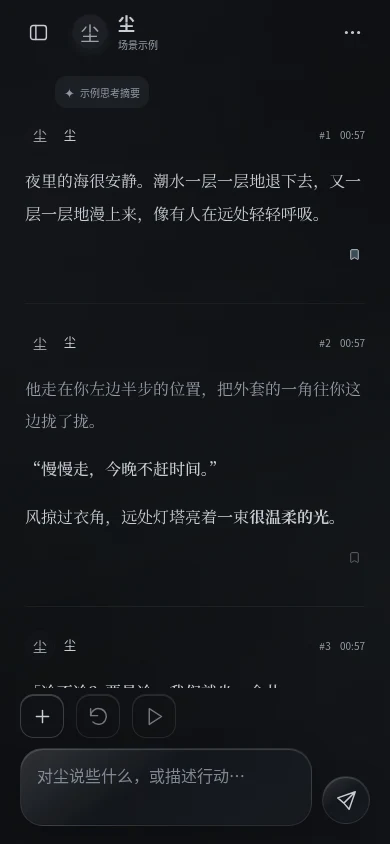
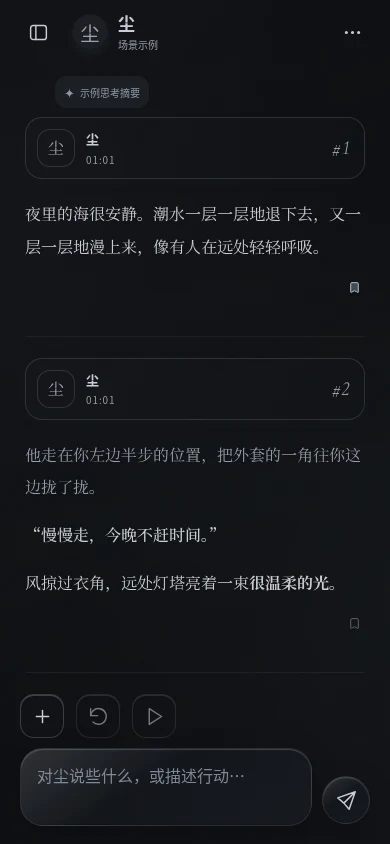
Style moom message headers with restrained frosted glass

diff --git a/src/apps/moom/default.css b/src/apps/moom/default.css
@@ -10,6 +10,9 @@
  --moom-body-leading:2.05;
  --moom-message-gap:24px;
  --moom-message-rule:rgb(var(--tint) / .11);
+ --moom-status-surface:linear-gradient(125deg,rgb(var(--glass-tint) / .42),rgb(var(--glass-tint) / .13));
+ --moom-status-rim:color-mix(in srgb,var(--line) 70%,transparent);
+ --moom-status-radius:17px;
 }
 .moom-app[data-moom-skin="default"]:before{
  background:linear-gradient(165deg,rgb(var(--glass-tint) / .38),rgb(var(--scene-rgb) / .07) 60%,rgb(var(--glass-tint) / .25));
@@ -17,12 +20,37 @@
 .moom-app .moom-reading{width:min(100%,600px);padding:12px 25px 28px}
 .moom-app [data-moom-part="message"]{position:relative;white-space:normal;text-align:left;margin:0 0 var(--moom-message-gap);padding:0 0 6px;color:var(--moom-body-color);font-size:var(--moom-body-size);line-height:var(--moom-body-leading)}
 .moom-app [data-moom-part="message"]+[data-moom-part="message"]{border-top:1px solid var(--moom-message-rule);padding-top:21px}
-.moom-app [data-moom-part="status"]{display:flex;align-items:center;gap:9px;min-height:36px;margin-bottom:12px;font:11px/1.4 var(--font-ui);color:var(--moom-meta-color)}
-.moom-app .moom-message-avatar{width:30px;height:30px;flex-shrink:0;border:1px solid rgb(var(--glass-tint) / .5);box-shadow:none;background:rgb(var(--glass-tint) / .28)}
-.moom-app .moom-message-avatar>span{font:14px/1 var(--font-ui)}
-.moom-app [data-moom-part="name"]{flex:1;min-width:0;overflow:hidden;text-overflow:ellipsis;white-space:nowrap;color:var(--ink);font-weight:500;font-size:12px}
-.moom-app [data-moom-part="floor"]{font:10px/1.4 var(--font-ui);font-variant-numeric:tabular-nums;letter-spacing:.03em;white-space:nowrap}
-.moom-app [data-moom-part="time"]{font:10px/1.4 var(--font-ui);font-variant-numeric:tabular-nums;white-space:nowrap}
+/* A compact character heading: portrait, name/date stack and quiet floor number.
+   Keep the existing parts and DOM order so alternative skins can replace this layout. */
+.moom-app [data-moom-part="status"]{
+ display:grid;grid-template-columns:38px minmax(0,1fr) auto;grid-template-rows:auto auto;
+ align-items:center;column-gap:11px;row-gap:3px;min-height:62px;
+ padding:10px 13px 10px 11px;margin:0 0 19px;border:1px solid var(--moom-status-rim);
+ border-radius:var(--moom-status-radius);background:var(--moom-status-surface);
+ box-shadow:inset 0 1px 0 rgb(var(--glass-tint) / .35),0 3px 14px rgb(var(--tint) / .035);
+ backdrop-filter:blur(12px);-webkit-backdrop-filter:blur(12px);
+ font:11px/1.4 var(--font-ui);color:var(--moom-meta-color);
+}
+.moom-app .moom-message-avatar{
+ grid-column:1;grid-row:1 / 3;width:38px;height:38px;border-radius:13px;
+ padding:3px;border:1px solid var(--moom-status-rim);box-shadow:none;
+ background:rgb(var(--glass-tint) / .22);
+}
+.moom-app .moom-message-avatar img{border-radius:9px}
+.moom-app .moom-message-avatar>span{font:16px/1 var(--font-story)}
+.moom-app [data-moom-part="name"]{
+ grid-column:2;grid-row:1;align-self:end;min-width:0;overflow:hidden;text-overflow:ellipsis;
+ white-space:nowrap;color:var(--ink);font:550 13px/1.5 var(--font-ui);letter-spacing:.05em;
+}
+.moom-app [data-moom-part="floor"]{
+ grid-column:3;grid-row:1 / 3;align-self:center;min-width:24px;text-align:right;
+ font:italic 20px/1 var(--font-en);font-variant-numeric:lining-nums tabular-nums;
+ letter-spacing:.015em;white-space:nowrap;color:var(--moom-meta-color);
+}
+.moom-app [data-moom-part="time"]{
+ grid-column:2;grid-row:2;align-self:start;font:10px/1.5 var(--font-ui);
+ font-variant-numeric:tabular-nums;letter-spacing:.09em;white-space:nowrap;
+}
 .moom-app [data-moom-part="body"]{font-family:var(--moom-body-font);color:var(--moom-body-color);overflow-wrap:anywhere}
 .moom-app .moom-prose{display:block;margin:0;white-space:pre-wrap;font-size:inherit;line-height:inherit}
 .moom-app .moom-prose+.moom-prose{margin-top:15px}
@@ -31,7 +59,7 @@
 .moom-app [data-moom-part="emphasis"]{color:var(--moom-body-color);font-weight:650}
 .moom-app [data-moom-part="inline-code"]{font:12px/1.7 ui-monospace,monospace;background:rgb(var(--tint) / .1);border-radius:5px;padding:2px 5px}
 .moom-app [data-moom-role="user"]{font-size:15px}
-.moom-app [data-moom-role="user"] [data-moom-part="name"]{color:var(--muted)}
+
 .moom-app .moom-thinking-trigger{display:flex;align-items:center;gap:5px;min-height:32px;max-width:100%;padding:4px 9px;margin:0 0 9px 30px;border:0;border-radius:12px;background:rgb(var(--glass-tint) / .16);color:var(--moom-meta-color);font:10px/1.5 var(--font-ui);text-align:left}
 .moom-app .moom-thinking-trigger span{overflow:hidden;text-overflow:ellipsis;white-space:nowrap}
 .moom-app .moom-thinking-trigger:hover{background:rgb(var(--tint) / .1)}
@@ -43,6 +71,6 @@
 .moom-sheet .moom-reasoning-caption{font:11px/1.8 var(--font-ui);color:var(--muted);margin:0 0 12px}
 .moom-sheet [data-moom-part="thinking-content"] .moom-reasoning-text{white-space:pre-wrap;overflow-wrap:anywhere;font:14px/1.95 var(--font-ui);color:var(--ink);max-height:55dvh;overflow:auto;overscroll-behavior:contain;scrollbar-width:thin}
 :root[data-theme="dark"] .moom-app[data-moom-skin="default"]:before{background:linear-gradient(165deg,rgb(var(--glass-tint) / .55),rgb(var(--scene-rgb) / .045) 60%,rgb(var(--glass-tint) / .45))}
-@media(max-width:350px){.moom-app .moom-reading{padding-inline:18px}.moom-app [data-moom-part="message"]{font-size:15px}.moom-app [data-moom-part="status"]{gap:7px}.moom-app .moom-thinking-trigger{margin-left:23px}}
+@media(max-width:350px){.moom-app .moom-reading{padding-inline:18px}.moom-app [data-moom-part="message"]{font-size:15px}.moom-app [data-moom-part="status"]{column-gap:9px;padding-inline:10px}.moom-app .moom-thinking-trigger{margin-left:23px}}
 
 .moom-app .moom-thinking-trigger>.moom-thinking-mark{font-size:13px;line-height:1;flex-shrink:0}

diff --git a/docs/moom-styling.md b/docs/moom-styling.md
@@ -14,7 +14,7 @@
 ## 当前默认设计
 
 - 克制的文档阅读布局，没有大块消息气泡。
-- 每条场景记录前显示紧凑消息头：角色头像、名字、楼层、24 小时发送时间。
+- 每条场景记录前显示轻透磨砂玻璃消息头：细框圆角头像、上下排列的名字与 24 小时发送时间，右侧以衬线数字显示楼层。圆角、留白和淡描边形成简约的韩系 ins 风；不添加虚构的动态状态。
 - 楼层按原场景记录顺序计数，筛选收藏时不重新编号。当前旧数据的每个 entry 就是一楼，不合并或重写原记录。
 - 台词、动作和强调有独立样式。普通正文继承 body 的字体、颜色、字号和行距。
 - 有服务提供的思考字段或开头的 `<think>...</think>` 时，显示一个小入口，点击进入共享底部抽屉。
@@ -63,6 +63,9 @@
 - `--moom-body-leading`：正文行高。
 - `--moom-message-gap`：消息间距。
 - `--moom-message-rule`：轻分隔线。
+- `--moom-status-surface`：消息状态栏的玻璃底色。
+- `--moom-status-rim`：消息状态栏及头像的细描边。
+- `--moom-status-radius`：消息状态栏圆角。
 
 默认值来自 app 现有的主题和字体变量，跟随明暗主题。
 
@@ -91,3 +94,8 @@ npm test
 ### 2026-10-21 补充验收
 
 已在可用的本地环境完成 `npm run check` 和 `npm test`。Chromium 检查 320px 窄屏、390px 手机宽度的明暗主题及横屏，核对思考抽屉和焦点返回、菜单中原设定保留、收藏筛选编号、长正文换行及预览隔离。以上为浏览器验收，未声称已在实体手机运行。
+
+
+### 2026-10-21 默认消息状态栏微调
+
+仅修改 `default.css`，保留原状态栏 DOM、样式钩子、楼层编号和本地时间来源。布局改为头像、名字／时间两行和右侧楼层；背景、描边使用主题变量，明暗模式共用。Chromium 核对窄屏与横屏、长昵称、省略显示、放大消息头文字、预览与正式状态栏几何／材质一致，以及原有思考抽屉和收藏行为。

diff --git a/docs/CODEX_HANDOFF.md b/docs/CODEX_HANDOFF.md
@@ -380,3 +380,10 @@ npm test
 - 思考入口移除右侧箭头，保留文字和对应消息底部抽屉；缺少思考仍不显示入口。
 - npm run check、npm test 通过。Chromium 验证窄屏／横屏及明暗主题、思考打开关闭与焦点返回、旧设定可编辑、收藏编号、长正文无横向溢出、隔离预览不写正式 localStorage；无实体手机验收声明。
 - docs/preview-moom.webp 与深色版已从当前实际页面更新。
+
+
+## 2026-10-21：默认消息状态栏的玻璃与字体层级
+
+- 用户希望酒馆美化的简约韩系 ins 感，本次调整的是每条消息的头像／名字／时间／楼层状态栏。只改默认皮肤 CSS，未重新引入旧场景大卡片。
+- 小圆角玻璃条、细框圆角头像，名字与时间上下排列，右侧衬线楼层数字。新增 --moom-status-surface／rim／radius，稳定 data-moom-part 保持不变，无存储改动。
+- Chromium 已查明暗、窄屏／横屏、长昵称及放大字体、正式与预览状态栏一致，以及思考和收藏行为；默认预览图同步更新。
